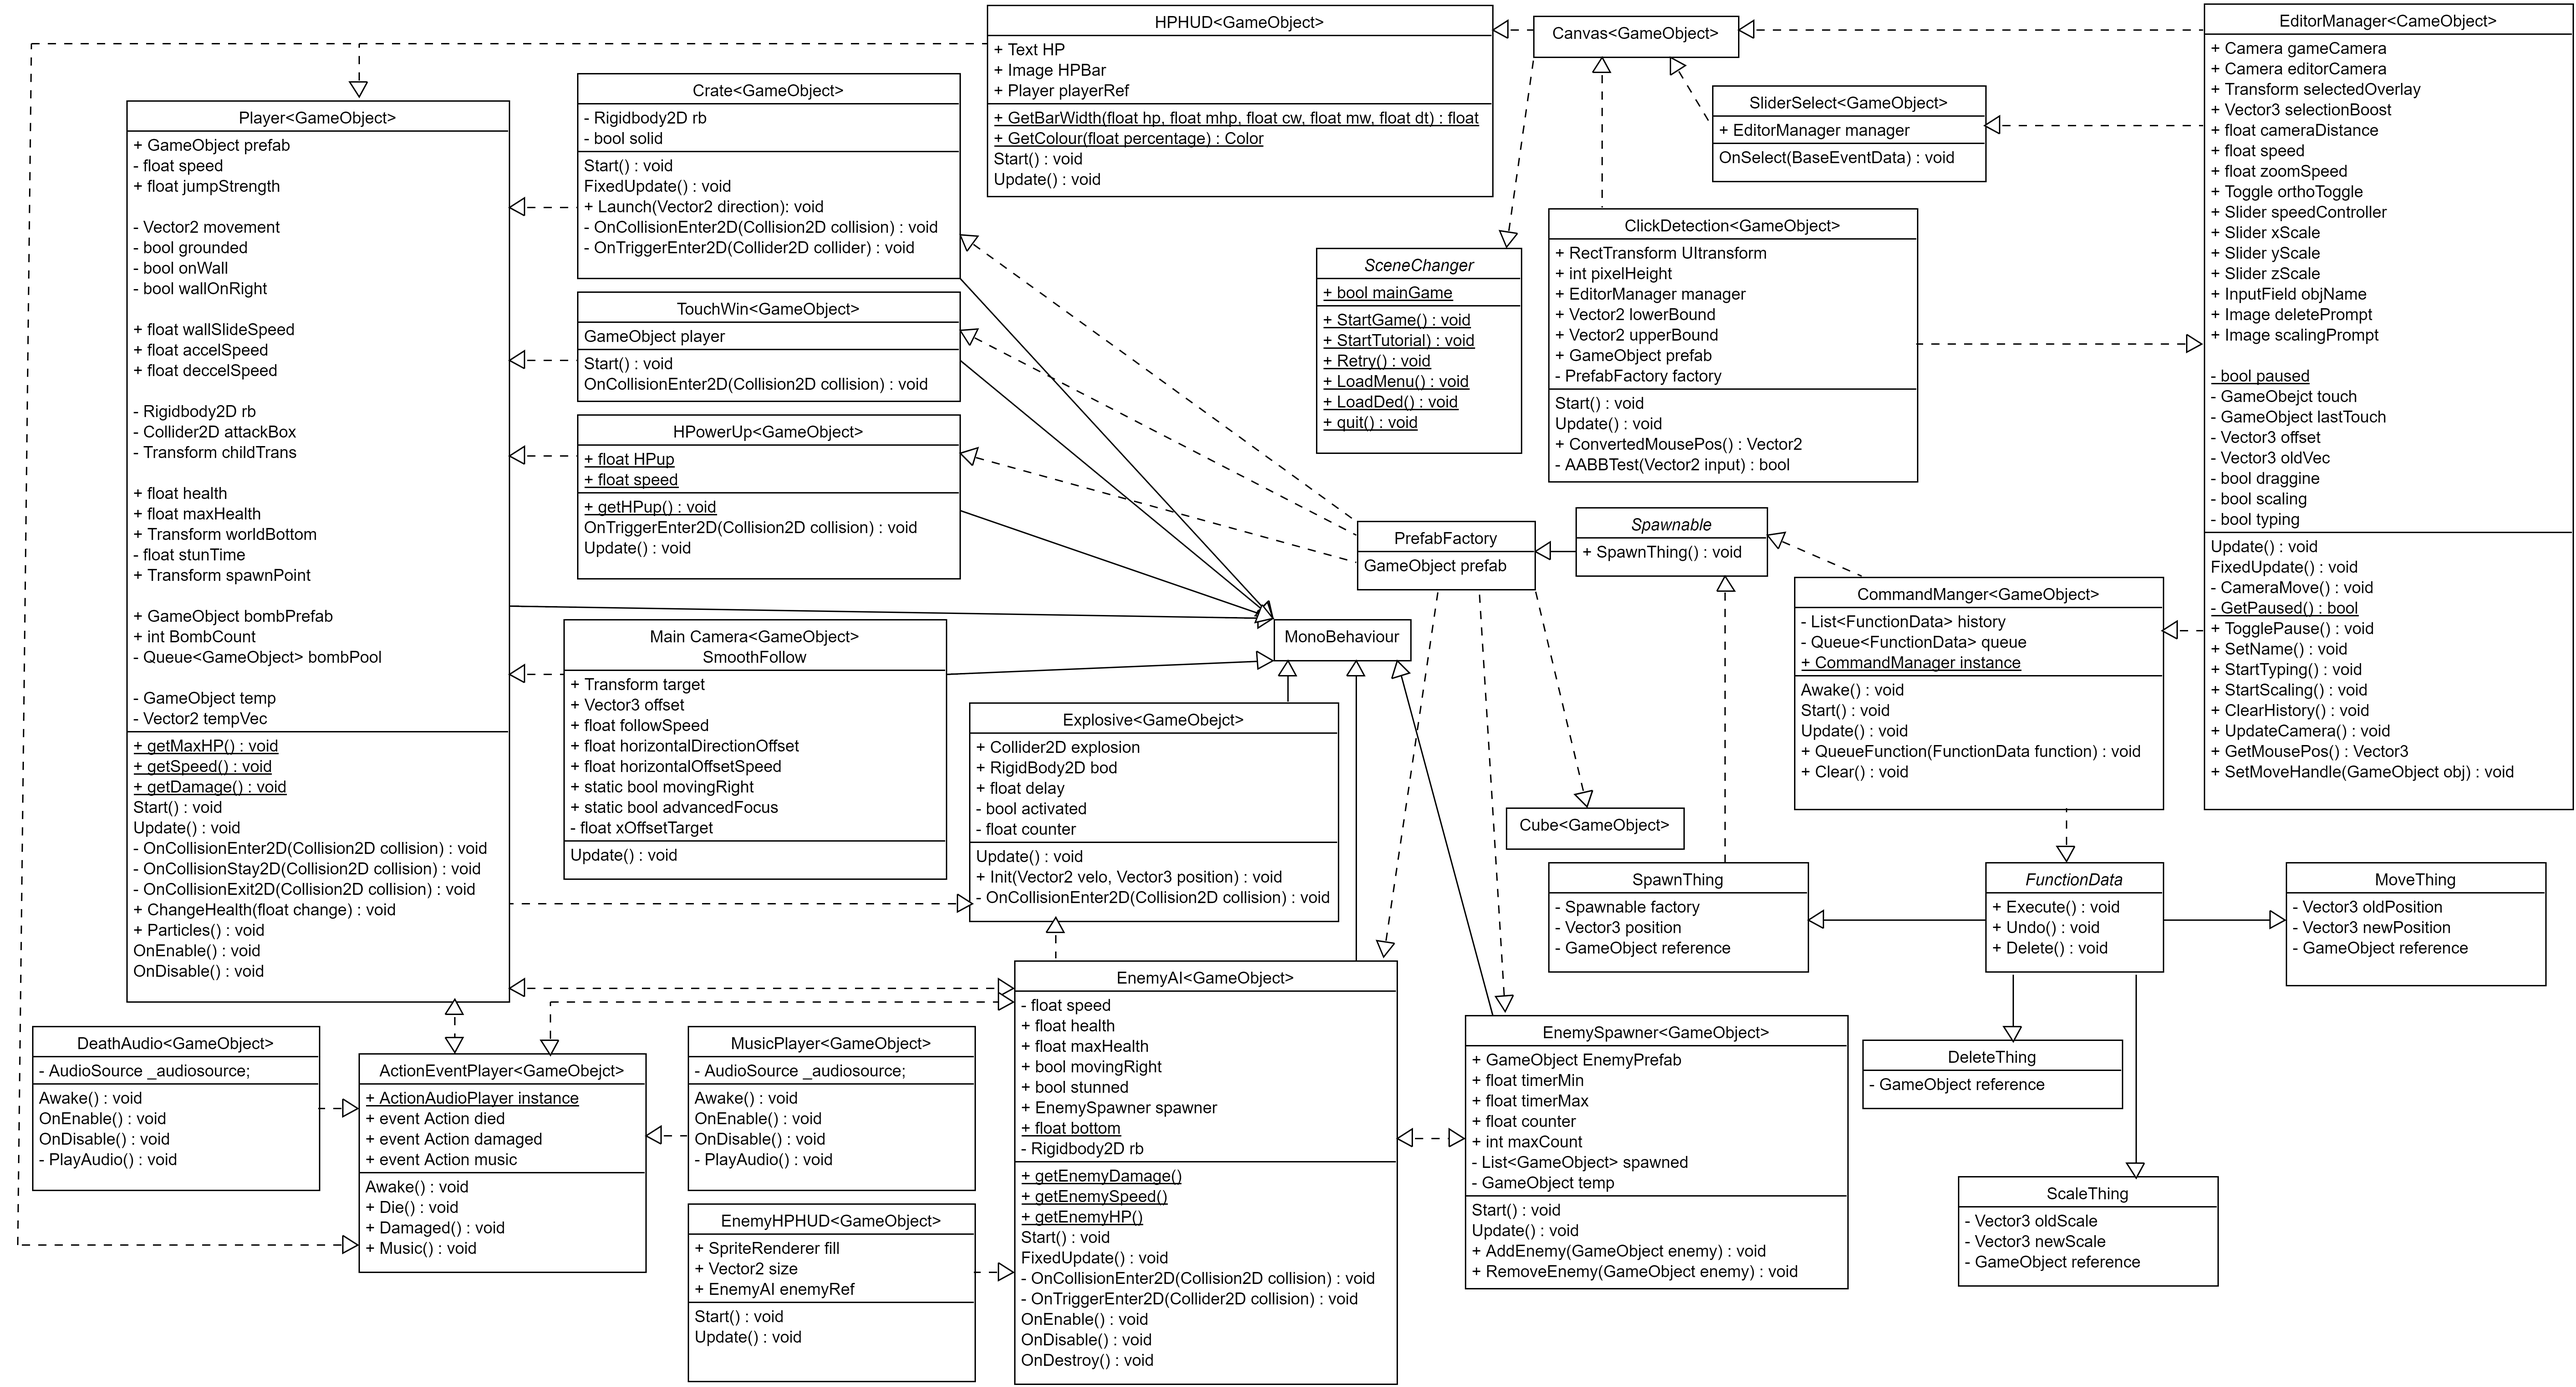
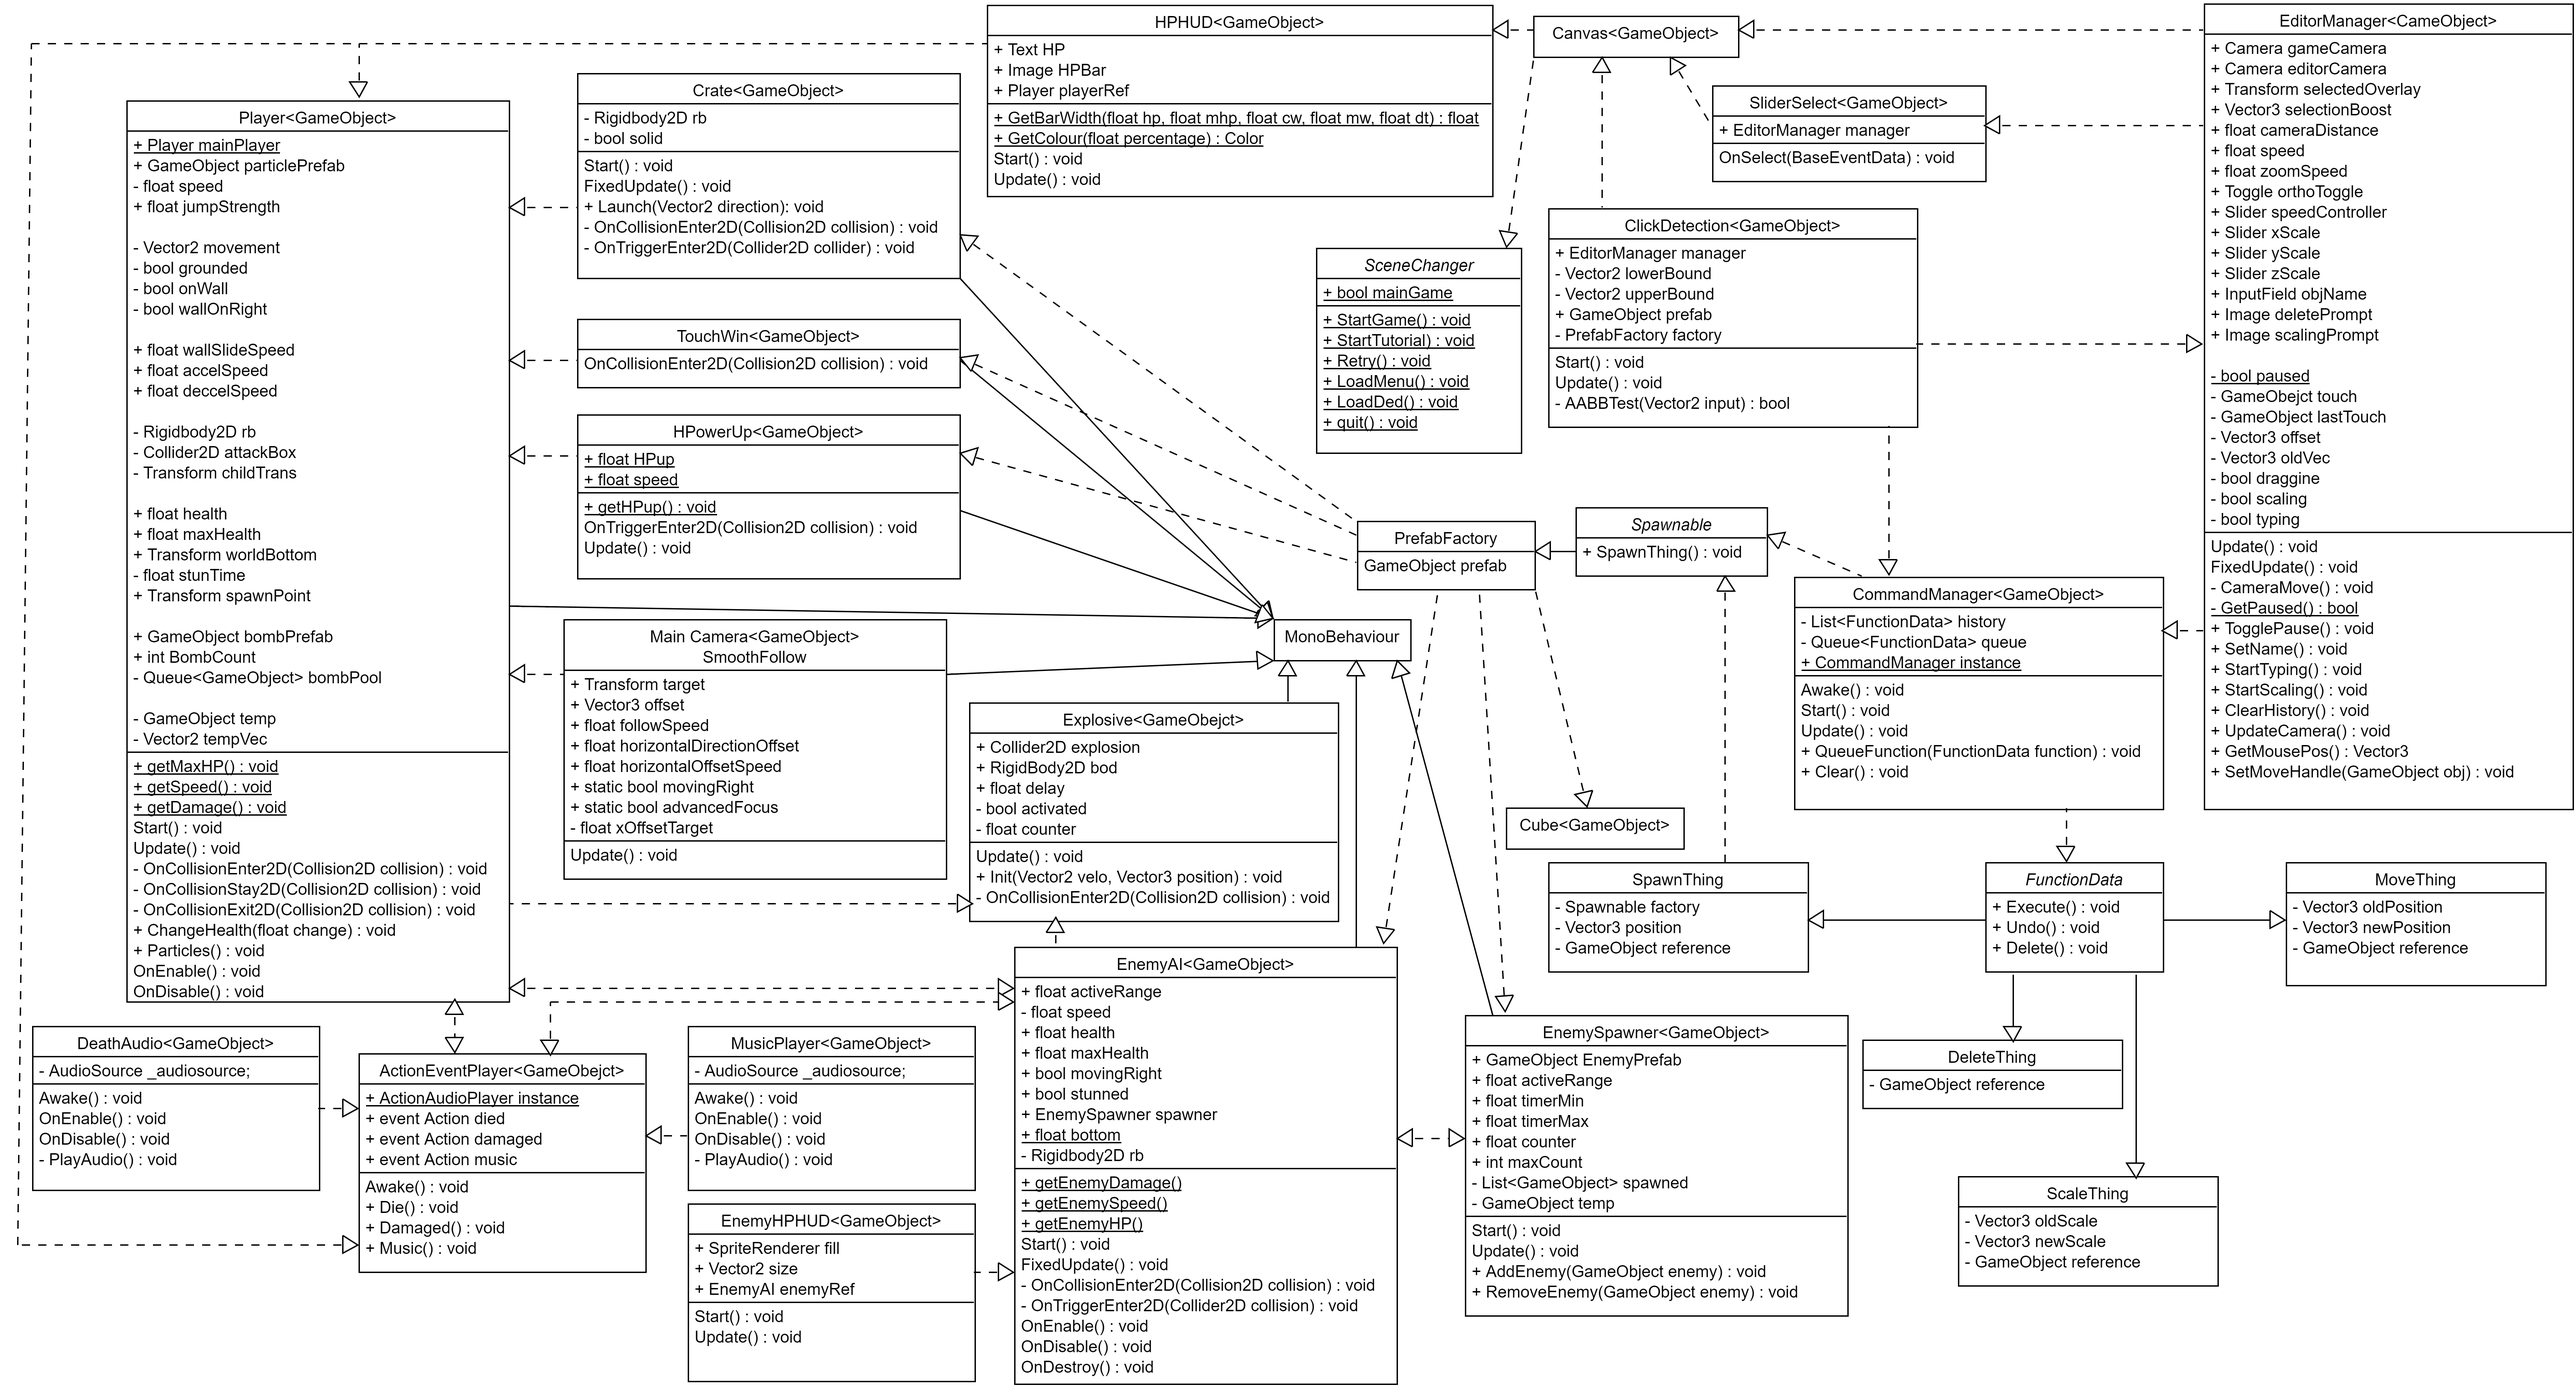
more polishing

diff --git a/Level Editor/Assets/Scripts/Gameplay/EnemySpawner.cs b/Level Editor/Assets/Scripts/Gameplay/EnemySpawner.cs
@@ -5,6 +5,8 @@ using UnityEngine;
 public class EnemySpawner : MonoBehaviour
 {
 	public GameObject EnemyPrefab;
+	public float activeRange = 25f;
+
 	public float timerMin = 5f;
 	public float timerMax = 10f;
 	public float counter = 0f;
@@ -22,7 +24,8 @@ public class EnemySpawner : MonoBehaviour
     // Update is called once per frame
     void Update()
     {
-		if (spawned.Count >= maxCount || EditorManager.GetPaused())	return;
+		if (spawned.Count >= maxCount || EditorManager.GetPaused()
+			|| (Player.mainPlayer.transform.position - transform.position).magnitude > activeRange)	return;
 
 		counter -= Time.deltaTime;
         if (counter <= 0) {

diff --git a/Level Editor/Assets/Scripts/Gameplay/EnemyAI.cs b/Level Editor/Assets/Scripts/Gameplay/EnemyAI.cs
@@ -15,6 +15,7 @@ public class EnemyAI : MonoBehaviour
     [DllImport("ModDLL")]
     public static extern float getEnemyHP();
 
+	public float activeRange = 25f;
     private float speed = 5f;
 	public float health = 5f;
 	public float maxHealth = 5f;
@@ -38,6 +39,8 @@ public class EnemyAI : MonoBehaviour
 
     void FixedUpdate()
     {
+		rb.simulated = (Player.mainPlayer.transform.position - transform.position).magnitude < activeRange;
+
 		if (transform.position.y < bottom) {
 			Destroy(gameObject);
 			return;

diff --git a/Level Editor/Assets/Scripts/Gameplay/Player.cs b/Level Editor/Assets/Scripts/Gameplay/Player.cs
@@ -143,7 +143,7 @@ public class Player : MonoBehaviour
 		}
 		//attack
 		if (Input.GetButtonDown("Attack")) {
-			childTrans.localPosition = Vector3.right * hori + Vector3.up * verti;
+			childTrans.localPosition = transform.rotation * (Vector3.right * hori + Vector3.up * verti);
 			childTrans.localScale = Vector3.one * 1.5f + Vector3.back * 0.7f;
 			attackBox.enabled = true;
 		}

diff --git a/Level Editor/Assets/Scripts/Gameplay/Crate.cs b/Level Editor/Assets/Scripts/Gameplay/Crate.cs
@@ -39,7 +39,7 @@ public class Crate : MonoBehaviour
 		//player launches
 		if (collider.gameObject.layer == 6) {
 			collider.enabled = false;
-			Launch(collider.offset * 10 + Vector2.up * 5);
+			Launch((Vector2)(collider.transform.rotation * collider.transform.localPosition) * 10 + Vector2.up * 5);
 		}
 		//bombs kill
 		else if (collider.gameObject.layer == 9) {

diff --git a/README.md b/README.md
@@ -1,4 +1,4 @@
-Engines Assignment 4  
+# Engines Aligned Component Replacement  
 Entirety of JayPEG:  
 Jonathan Jay (100743575)  
 Matthew McPherson (100757379)  
@@ -60,6 +60,7 @@ Drag scale sliders to scale object
 Delete to delete selected object (if prompt appears)  
 Rename objects by clicking in the name box in the top right  
 Undo with Z, redo with R
+Left Shift or \ to snap camera to player
 
 
 To mod the game, grab the dll wanted from the DLLs folder and paste it into the plugins folder of Unity, then rename it ModDLL.dll or UIDLL.dll
